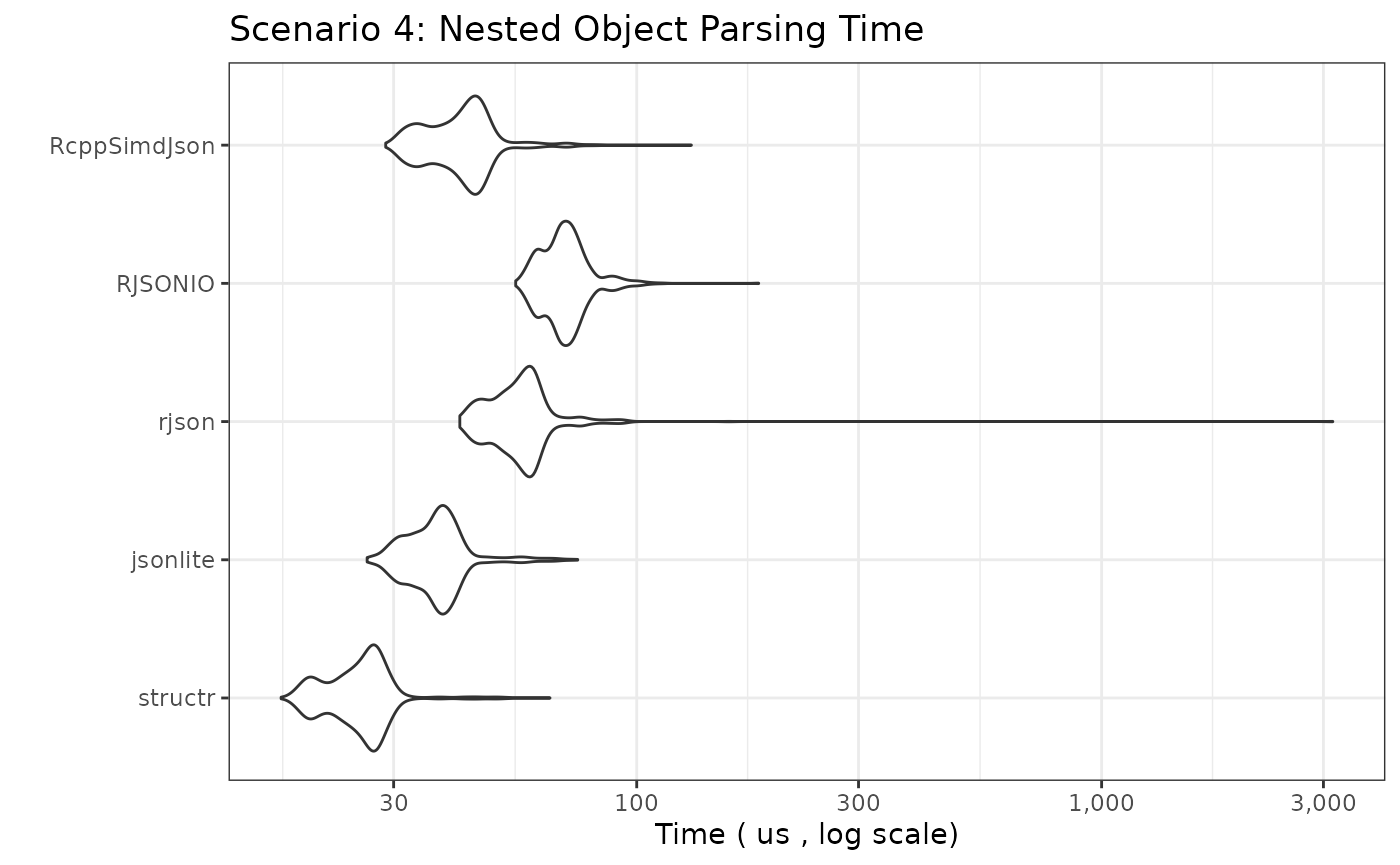
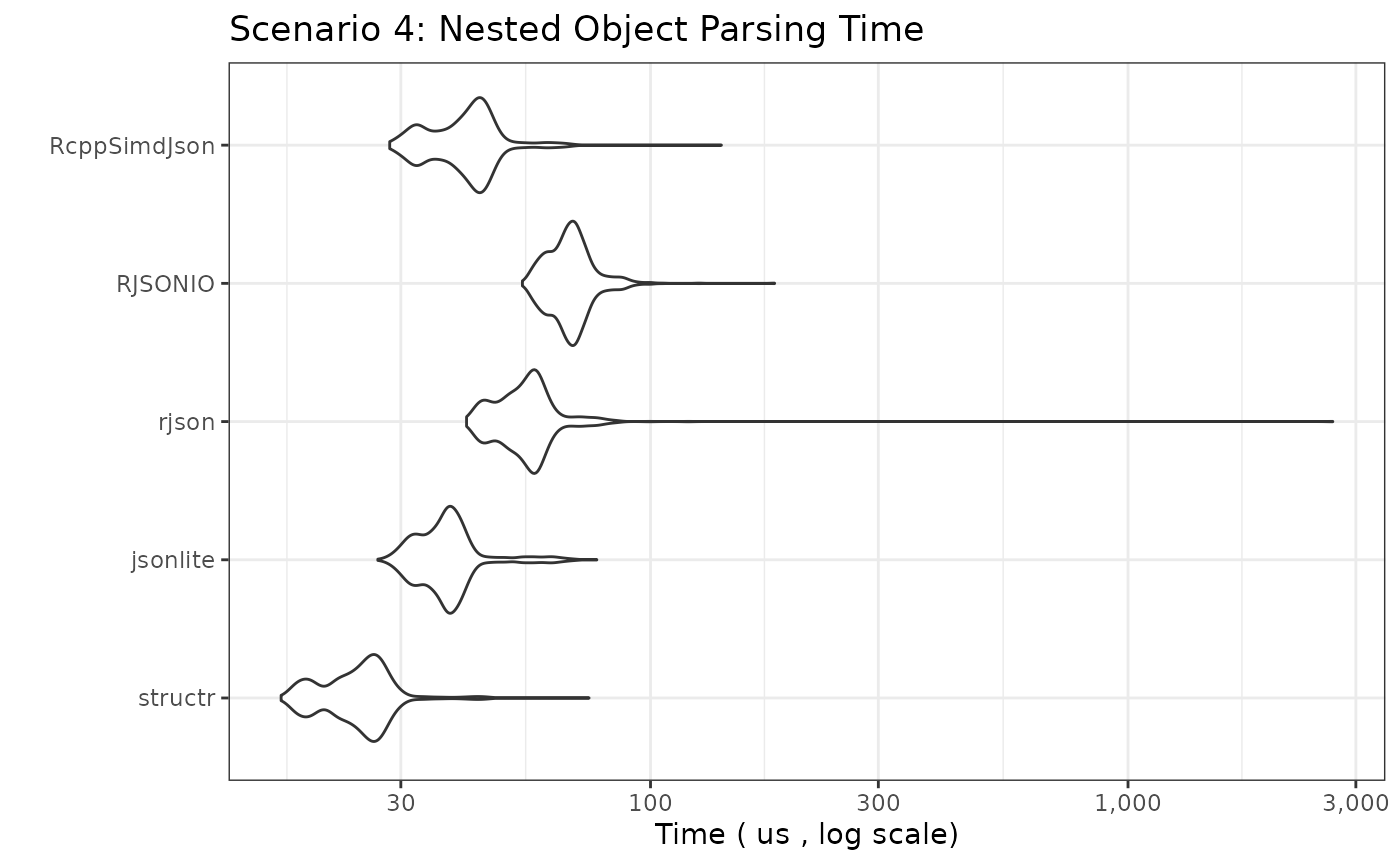
Deploying to gh-pages from @ ixpantia/structr@3cf323386bd1316edb329285e723dbaf949d2061 🚀

diff --git a/articles/bench.html b/articles/bench.html
@@ -156,12 +156,12 @@ speed.</p>
 <span>  y_label <span class="op">=</span> <span class="fu"><a href="https://rdrr.io/r/base/paste.html" class="external-link">paste</a></span><span class="op">(</span><span class="st">"Time ("</span>, <span class="va">benchmark_unit_fast</span>, <span class="st">", log scale)"</span><span class="op">)</span></span>
 <span><span class="op">)</span></span></code></pre></div>
 <pre><code><span><span class="co">## Unit: microseconds</span></span>
-<span><span class="co">##          expr    min     lq      mean  median      uq      max neval</span></span>
-<span><span class="co">##       structr  4.899  7.454  9.192114  9.1870 10.2645   38.442  1000</span></span>
-<span><span class="co">##      jsonlite 42.399 51.025 59.962012 54.5110 63.6435 2847.625  1000</span></span>
-<span><span class="co">##         rjson 28.804 36.704 42.250469 41.1210 45.7100  110.446  1000</span></span>
-<span><span class="co">##       RJSONIO 34.715 43.596 49.035002 48.2100 53.1395  127.799  1000</span></span>
-<span><span class="co">##  RcppSimdJson 20.879 27.782 32.505742 31.2435 35.5915   66.213  1000</span></span></code></pre>
+<span><span class="co">##          expr    min      lq      mean  median     uq      max neval</span></span>
+<span><span class="co">##       structr  4.849  7.6190  9.422481  9.5330 10.645   45.415  1000</span></span>
+<span><span class="co">##      jsonlite 42.108 50.4195 59.446336 54.1665 63.082 2504.012  1000</span></span>
+<span><span class="co">##         rjson 28.363 36.6380 41.959615 40.8660 45.365  125.514  1000</span></span>
+<span><span class="co">##       RJSONIO 33.754 43.0905 48.559685 47.4385 52.483  130.714  1000</span></span>
+<span><span class="co">##  RcppSimdJson 20.699 27.5915 31.973654 31.0880 34.825   72.656  1000</span></span></code></pre>
 <p><img src="bench_files/figure-html/bm_simple_object-1.png" width="700" style="display: block; margin: auto;"></p>
 </div>
 <div class="section level3">
@@ -183,11 +183,11 @@ speed.</p>
 <span><span class="op">)</span></span></code></pre></div>
 <pre><code><span><span class="co">## Unit: microseconds</span></span>
 <span><span class="co">##          expr    min      lq      mean  median      uq      max neval</span></span>
-<span><span class="co">##       structr  3.937  5.9410  7.602014  7.6945  8.6560   29.224  1000</span></span>
-<span><span class="co">##      jsonlite 33.182 38.4470 42.046634 41.5980 43.8420  110.086  1000</span></span>
-<span><span class="co">##         rjson 32.020 38.2720 43.332645 43.7065 46.3565  125.154  1000</span></span>
-<span><span class="co">##       RJSONIO 45.365 53.2790 57.743020 57.4830 60.6785  143.798  1000</span></span>
-<span><span class="co">##  RcppSimdJson 21.360 25.9235 32.863819 29.9560 32.0050 3394.946  1000</span></span></code></pre>
+<span><span class="co">##       structr  3.858  5.9360  7.343874  7.5190  8.4955   29.666  1000</span></span>
+<span><span class="co">##      jsonlite 32.140 37.8610 41.336088 41.1770 43.4165   90.679  1000</span></span>
+<span><span class="co">##         rjson 31.549 37.1745 42.301518 42.7495 45.3295  128.670  1000</span></span>
+<span><span class="co">##       RJSONIO 45.054 52.3180 56.900786 56.1245 59.4660  146.433  1000</span></span>
+<span><span class="co">##  RcppSimdJson 21.049 25.5780 32.265662 29.5155 31.5130 3246.998  1000</span></span></code></pre>
 <p><img src="bench_files/figure-html/bm_simple_array_int-1.png" width="700" style="display: block; margin: auto;"></p>
 </div>
 <div class="section level3">
@@ -208,12 +208,12 @@ speed.</p>
 <span>  y_label <span class="op">=</span> <span class="fu"><a href="https://rdrr.io/r/base/paste.html" class="external-link">paste</a></span><span class="op">(</span><span class="st">"Time ("</span>, <span class="va">benchmark_unit_fast</span>, <span class="st">", log scale)"</span><span class="op">)</span></span>
 <span><span class="op">)</span></span></code></pre></div>
 <pre><code><span><span class="co">## Unit: microseconds</span></span>
-<span><span class="co">##          expr    min      lq      mean  median      uq      max neval</span></span>
-<span><span class="co">##       structr  4.168  6.1820  7.447508  7.5695  8.5610   27.592  1000</span></span>
-<span><span class="co">##      jsonlite 25.678 30.7525 33.796142 33.7730 35.7420   75.942  1000</span></span>
-<span><span class="co">##         rjson 29.916 36.0470 39.912853 40.1700 42.6600  123.561  1000</span></span>
-<span><span class="co">##       RJSONIO 40.135 48.1550 52.213798 51.9475 54.7625  153.215  1000</span></span>
-<span><span class="co">##  RcppSimdJson 21.350 26.3035 33.103361 29.8655 32.0300 3300.308  1000</span></span></code></pre>
+<span><span class="co">##          expr    min      lq      mean  median     uq      max neval</span></span>
+<span><span class="co">##       structr  4.278  6.3775  7.632164  7.6940  8.576   41.197  1000</span></span>
+<span><span class="co">##      jsonlite 25.868 30.6620 33.982399 33.9040 35.737   80.250  1000</span></span>
+<span><span class="co">##         rjson 30.187 36.1875 40.506223 40.3700 43.005  112.701  1000</span></span>
+<span><span class="co">##       RJSONIO 40.315 47.6690 51.992735 51.6115 54.547  159.368  1000</span></span>
+<span><span class="co">##  RcppSimdJson 21.480 26.4990 33.158860 29.8800 32.155 3274.850  1000</span></span></code></pre>
 <p><img src="bench_files/figure-html/bm_simple_array_str-1.png" width="700" style="display: block; margin: auto;"></p>
 </div>
 <div class="section level3">
@@ -236,11 +236,11 @@ speed.</p>
 <span><span class="op">)</span></span></code></pre></div>
 <pre><code><span><span class="co">## Unit: microseconds</span></span>
 <span><span class="co">##          expr    min      lq     mean  median      uq      max neval</span></span>
-<span><span class="co">##       structr 17.182 22.6925 25.59093 25.8335 27.6420   65.082  1000</span></span>
-<span><span class="co">##      jsonlite 26.309 33.3825 37.42539 37.1945 39.7240   74.660  1000</span></span>
-<span><span class="co">##         rjson 41.637 50.4490 59.35239 56.2650 60.1375 3142.535  1000</span></span>
-<span><span class="co">##       RJSONIO 54.912 64.5860 70.49367 69.6800 74.1590  182.951  1000</span></span>
-<span><span class="co">##  RcppSimdJson 28.844 36.5985 42.21154 42.6845 45.8955  131.105  1000</span></span></code></pre>
+<span><span class="co">##       structr 16.842 21.8105 24.68554 24.9270 26.8450   74.359  1000</span></span>
+<span><span class="co">##      jsonlite 26.850 33.7585 37.88613 37.3300 39.6895   77.194  1000</span></span>
+<span><span class="co">##         rjson 41.187 49.6330 57.60227 55.0080 58.4890 2684.409  1000</span></span>
+<span><span class="co">##       RJSONIO 53.920 63.0730 68.26628 67.7160 71.5290  181.910  1000</span></span>
+<span><span class="co">##  RcppSimdJson 28.433 35.8370 41.16907 41.9885 44.8190  140.753  1000</span></span></code></pre>
 <p><img src="bench_files/figure-html/bm_nested_object-1.png" width="700" style="display: block; margin: auto;"></p>
 </div>
 <div class="section level3">
@@ -262,11 +262,11 @@ speed.</p>
 <span><span class="op">)</span></span></code></pre></div>
 <pre><code><span><span class="co">## Unit: milliseconds</span></span>
 <span><span class="co">##          expr      min        lq       mean    median        uq      max neval</span></span>
-<span><span class="co">##       structr 0.190395 0.2228010 0.23824712 0.2333955 0.2468710 1.950821   500</span></span>
-<span><span class="co">##      jsonlite 0.119553 0.1506865 0.16896090 0.1581960 0.1632040 3.612822   500</span></span>
-<span><span class="co">##         rjson 0.163185 0.1785780 0.19213523 0.1903455 0.2051480 0.273982   500</span></span>
-<span><span class="co">##       RJSONIO 0.246510 0.2670930 0.27798624 0.2745125 0.2857430 0.444159   500</span></span>
-<span><span class="co">##  RcppSimdJson 0.054793 0.0670700 0.08055183 0.0769390 0.0937795 0.157353   500</span></span></code></pre>
+<span><span class="co">##       structr 0.186819 0.2190285 0.24807508 0.2379135 0.2697985 1.979062   500</span></span>
+<span><span class="co">##      jsonlite 0.121667 0.1590020 0.17524477 0.1653830 0.1701625 3.438174   500</span></span>
+<span><span class="co">##         rjson 0.161311 0.1768850 0.19117243 0.1880410 0.2039860 0.277848   500</span></span>
+<span><span class="co">##       RJSONIO 0.250588 0.2672035 0.27745107 0.2750180 0.2843710 0.498089   500</span></span>
+<span><span class="co">##  RcppSimdJson 0.054892 0.0671105 0.08041215 0.0779105 0.0929835 0.170338   500</span></span></code></pre>
 <p><img src="bench_files/figure-html/bm_array_of_objects-1.png" width="700" style="display: block; margin: auto;"></p>
 </div>
 <div class="section level3">
@@ -291,11 +291,11 @@ speed.</p>
 <span><span class="op">)</span></span></code></pre></div>
 <pre><code><span><span class="co">## Unit: milliseconds</span></span>
 <span><span class="co">##          expr      min       lq      mean   median        uq       max neval</span></span>
-<span><span class="co">##       structr 2.152086 2.398340 2.6086492 2.511277 2.6441995 11.037206   500</span></span>
-<span><span class="co">##      jsonlite 1.381969 1.425505 1.5358536 1.461287 1.5505235  7.065805   500</span></span>
-<span><span class="co">##         rjson 1.360268 1.407532 1.5863846 1.440888 1.5403140 13.555296   500</span></span>
-<span><span class="co">##       RJSONIO 2.017324 2.187096 2.2980437 2.207324 2.2838425  8.475857   500</span></span>
-<span><span class="co">##  RcppSimdJson 0.330447 0.353275 0.4157574 0.375155 0.4127005  0.699966   500</span></span></code></pre>
+<span><span class="co">##       structr 2.043933 2.344128 2.6231580 2.485572 2.6905650 10.364106   500</span></span>
+<span><span class="co">##      jsonlite 1.477657 1.515272 1.6477652 1.566838 1.6593205  7.979427   500</span></span>
+<span><span class="co">##         rjson 1.348205 1.399927 1.5441378 1.429472 1.5780140 12.913312   500</span></span>
+<span><span class="co">##       RJSONIO 2.001664 2.180779 2.3366398 2.212117 2.3817135  9.239458   500</span></span>
+<span><span class="co">##  RcppSimdJson 0.334003 0.355208 0.4231348 0.381261 0.4388085  0.789102   500</span></span></code></pre>
 <p><img src="bench_files/figure-html/bm_large_array_of_objects-1.png" width="700" style="display: block; margin: auto;"></p>
 </div>
 <div class="section level3">
@@ -318,12 +318,12 @@ speed.</p>
 <span>  y_label <span class="op">=</span> <span class="fu"><a href="https://rdrr.io/r/base/paste.html" class="external-link">paste</a></span><span class="op">(</span><span class="st">"Time ("</span>, <span class="va">benchmark_unit_medium</span>, <span class="st">", log scale)"</span><span class="op">)</span></span>
 <span><span class="op">)</span></span></code></pre></div>
 <pre><code><span><span class="co">## Unit: milliseconds</span></span>
-<span><span class="co">##          expr      min        lq      mean    median        uq       max neval</span></span>
-<span><span class="co">##       structr 0.188091 0.1969975 0.2115499 0.2035550 0.2262920  0.345995   500</span></span>
-<span><span class="co">##      jsonlite 2.370985 2.6537825 2.8519514 2.7527370 2.8374055  7.422822   500</span></span>
-<span><span class="co">##         rjson 1.054868 1.0819940 1.2088789 1.0966115 1.1247190 12.316904   500</span></span>
-<span><span class="co">##       RJSONIO 2.555058 2.5951530 2.6592767 2.6150400 2.6493690  7.498032   500</span></span>
-<span><span class="co">##  RcppSimdJson 0.190225 0.2030890 0.2219051 0.2122465 0.2383655  0.358719   500</span></span></code></pre>
+<span><span class="co">##          expr      min       lq      mean    median        uq       max neval</span></span>
+<span><span class="co">##       structr 0.188632 0.197464 0.2138257 0.2068615 0.2271990  0.386592   500</span></span>
+<span><span class="co">##      jsonlite 2.506897 2.798246 2.9705044 2.9020950 3.0131515  7.297494   500</span></span>
+<span><span class="co">##         rjson 1.048316 1.071244 1.1929075 1.0918020 1.1206310 11.028946   500</span></span>
+<span><span class="co">##       RJSONIO 2.523789 2.575199 2.6917944 2.6079655 2.6539060  7.368397   500</span></span>
+<span><span class="co">##  RcppSimdJson 0.190286 0.203595 0.2267920 0.2158120 0.2408995  0.437216   500</span></span></code></pre>
 <p><img src="bench_files/figure-html/bm_large_array_int-1.png" width="700" style="display: block; margin: auto;"></p>
 </div>
 <div class="section level3">
@@ -346,12 +346,12 @@ speed.</p>
 <span>  y_label <span class="op">=</span> <span class="fu"><a href="https://rdrr.io/r/base/paste.html" class="external-link">paste</a></span><span class="op">(</span><span class="st">"Time ("</span>, <span class="va">benchmark_unit_medium</span>, <span class="st">", log scale)"</span><span class="op">)</span></span>
 <span><span class="op">)</span></span></code></pre></div>
 <pre><code><span><span class="co">## Unit: milliseconds</span></span>
-<span><span class="co">##          expr      min        lq      mean   median       uq       max neval</span></span>
-<span><span class="co">##       structr 0.678697 0.6969955 0.7180350 0.707971 0.735342  0.995989   500</span></span>
-<span><span class="co">##      jsonlite 2.264105 2.4071720 2.6127171 2.523494 2.662444  7.775149   500</span></span>
-<span><span class="co">##         rjson 1.321045 1.3467430 1.4469878 1.374610 1.408038  6.642807   500</span></span>
-<span><span class="co">##       RJSONIO 3.487628 3.5259000 3.6823692 3.556998 3.595149 12.227528   500</span></span>
-<span><span class="co">##  RcppSimdJson 0.642259 0.6629230 0.6907722 0.679768 0.711623  1.058215   500</span></span></code></pre>
+<span><span class="co">##          expr      min        lq      mean    median        uq       max neval</span></span>
+<span><span class="co">##       structr 0.678626 0.6956880 0.7223176 0.7090730 0.7349565  1.159103   500</span></span>
+<span><span class="co">##      jsonlite 2.289291 2.4676540 2.6974454 2.5757005 2.7597735  7.695878   500</span></span>
+<span><span class="co">##         rjson 1.325052 1.3474135 1.4661859 1.3808210 1.4170140  6.198885   500</span></span>
+<span><span class="co">##       RJSONIO 3.488258 3.5509645 3.7268805 3.5803650 3.6383885 11.805405   500</span></span>
+<span><span class="co">##  RcppSimdJson 0.643941 0.6644395 0.6964286 0.6854695 0.7138470  1.274668   500</span></span></code></pre>
 <p><img src="bench_files/figure-html/bm_large_array_str-1.png" width="700" style="display: block; margin: auto;"></p>
 </div>
 <div class="section level3">
@@ -373,12 +373,12 @@ speed.</p>
 <span>  y_label <span class="op">=</span> <span class="fu"><a href="https://rdrr.io/r/base/paste.html" class="external-link">paste</a></span><span class="op">(</span><span class="st">"Time ("</span>, <span class="va">benchmark_unit_fast</span>, <span class="st">", log scale)"</span><span class="op">)</span></span>
 <span><span class="op">)</span></span></code></pre></div>
 <pre><code><span><span class="co">## Unit: microseconds</span></span>
-<span><span class="co">##          expr    min      lq     mean  median      uq      max neval</span></span>
-<span><span class="co">##       structr 13.345 16.5555 18.33186 18.3640 19.5865   43.411  1000</span></span>
-<span><span class="co">##      jsonlite 17.523 20.7285 23.47486 23.3840 24.9120   77.855  1000</span></span>
-<span><span class="co">##         rjson 30.557 36.3530 45.14336 41.0320 43.5510 4354.416  1000</span></span>
-<span><span class="co">##       RJSONIO 38.973 46.3265 50.49376 50.4445 53.1045  136.164  1000</span></span>
-<span><span class="co">##  RcppSimdJson 23.775 28.7590 32.25526 32.2755 34.3790   75.952  1000</span></span></code></pre>
+<span><span class="co">##          expr    min      lq     mean  median     uq      max neval</span></span>
+<span><span class="co">##       structr 12.753 15.2480 17.38108 17.4425 18.680   71.222  1000</span></span>
+<span><span class="co">##      jsonlite 16.691 19.9275 22.66625 22.8025 24.320   73.517  1000</span></span>
+<span><span class="co">##         rjson 29.124 35.2410 39.74102 39.8245 42.229  109.625  1000</span></span>
+<span><span class="co">##       RJSONIO 37.590 44.2175 52.55501 48.1050 51.020 4149.321  1000</span></span>
+<span><span class="co">##  RcppSimdJson 23.243 27.5920 31.12438 31.6390 33.523   69.259  1000</span></span></code></pre>
 <p><img src="bench_files/figure-html/bm_deep_nest-1.png" width="700" style="display: block; margin: auto;"></p>
 </div>
 <div class="section level3">
@@ -401,11 +401,11 @@ speed.</p>
 <span><span class="op">)</span></span></code></pre></div>
 <pre><code><span><span class="co">## Unit: milliseconds</span></span>
 <span><span class="co">##          expr      min        lq       mean    median        uq      max neval</span></span>
-<span><span class="co">##       structr 0.058739 0.0690240 0.07308728 0.0729510 0.0758865 0.121968   500</span></span>
-<span><span class="co">##      jsonlite 0.038422 0.0499790 0.05396680 0.0533245 0.0563850 0.116868   500</span></span>
-<span><span class="co">##         rjson 0.062787 0.0720245 0.07843663 0.0783110 0.0826695 0.144139   500</span></span>
-<span><span class="co">##       RJSONIO 0.082985 0.0920765 0.10893664 0.0974620 0.1030120 5.324386   500</span></span>
-<span><span class="co">##  RcppSimdJson 0.033773 0.0408665 0.04696561 0.0468020 0.0512050 0.120275   500</span></span></code></pre>
+<span><span class="co">##       structr 0.057858 0.0666995 0.07124966 0.0704220 0.0737730 0.120435   500</span></span>
+<span><span class="co">##      jsonlite 0.040656 0.0498175 0.05448382 0.0533945 0.0565510 0.120666   500</span></span>
+<span><span class="co">##         rjson 0.062897 0.0715740 0.07865277 0.0776890 0.0830295 0.147235   500</span></span>
+<span><span class="co">##       RJSONIO 0.082184 0.0905490 0.10806506 0.0962500 0.1022060 5.207927   500</span></span>
+<span><span class="co">##  RcppSimdJson 0.033142 0.0403755 0.04628871 0.0459810 0.0505695 0.109204   500</span></span></code></pre>
 <p><img src="bench_files/figure-html/bm_wide_object-1.png" width="700" style="display: block; margin: auto;"></p>
 </div>
 </div>

diff --git a/reference/s_vector.html b/reference/s_vector.html
@@ -85,13 +85,13 @@ vector. This should be the result of another <code>s_*</code> function call (e.g
 <span class="r-out co"><span class="r-pr">#&gt;</span> Vector(</span>
 <span class="r-out co"><span class="r-pr">#&gt;</span>     Map {</span>
 <span class="r-out co"><span class="r-pr">#&gt;</span>         fields: {</span>
-<span class="r-out co"><span class="r-pr">#&gt;</span>             "id": Integer,</span>
 <span class="r-out co"><span class="r-pr">#&gt;</span>             "name": String,</span>
+<span class="r-out co"><span class="r-pr">#&gt;</span>             "id": Integer,</span>
 <span class="r-out co"><span class="r-pr">#&gt;</span>         },</span>
 <span class="r-out co"><span class="r-pr">#&gt;</span>         ignore_extra_fields: false,</span>
 <span class="r-out co"><span class="r-pr">#&gt;</span>         expected_fields_str: [</span>
-<span class="r-out co"><span class="r-pr">#&gt;</span>             "id",</span>
 <span class="r-out co"><span class="r-pr">#&gt;</span>             "name",</span>
+<span class="r-out co"><span class="r-pr">#&gt;</span>             "id",</span>
 <span class="r-out co"><span class="r-pr">#&gt;</span>         ],</span>
 <span class="r-out co"><span class="r-pr">#&gt;</span>     },</span>
 <span class="r-out co"><span class="r-pr">#&gt;</span> )</span>

diff --git a/articles/getting_started.html b/articles/getting_started.html
@@ -229,7 +229,7 @@ throws an informative error.</p>
 <span><span class="st">}'</span></span>
 <span><span class="kw"><a href="https://rdrr.io/r/base/try.html" class="external-link">try</a></span><span class="op">(</span><span class="fu"><a href="../reference/parse_json.html">parse_json</a></span><span class="op">(</span><span class="va">json_extra_field</span>, <span class="va">user_structure</span><span class="op">)</span><span class="op">)</span></span>
 <span><span class="co">#&gt; Error in parse_json(json_extra_field, user_structure) : </span></span>
-<span><span class="co">#&gt;   Serde("unknown field `email`, expected one of `is_active`, `username`, `id`") at character 0</span></span>
+<span><span class="co">#&gt;   Serde("unknown field `email`, expected one of `id`, `username`, `is_active`") at character 0</span></span>
 <span></span>
 <span><span class="co"># Error: Invalid JSON syntax</span></span>
 <span><span class="va">json_syntax_error</span> <span class="op">&lt;-</span> <span class="st">'{ "id": 1 '</span> <span class="co"># Missing closing brace</span></span>
